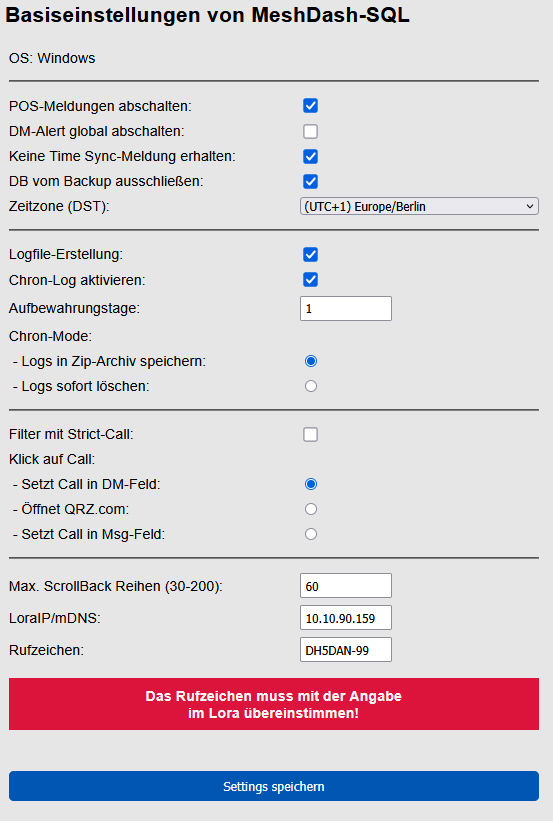
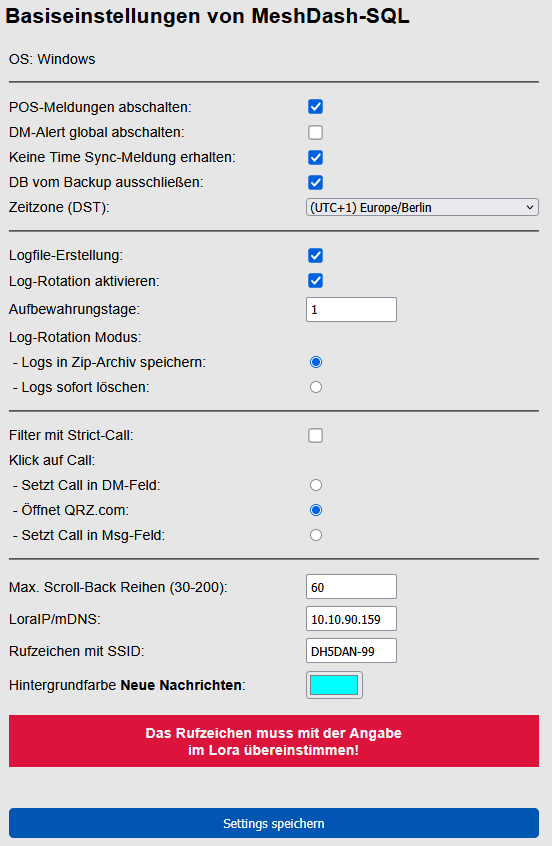
UPDATE Readme MD

Changed region(s): [[0.0, 0.0609, 0.9855, 1.0], [0.0, 0.0, 0.7391, 0.0305]]

diff --git a/README.md b/README.md
@@ -2,7 +2,7 @@
 
 ## Was ist MeshDash-SQL?
 
-MeshDash_SQL ist eine Webanwendung zur Anzeige und Verwaltung von Nachrichten  
+MeshDash-SQL ist eine Webanwendung zur Anzeige und Verwaltung von Nachrichten  
 auf ESP32-basierten Geräten, die mit der Firmware MeshCom arbeiten.  
 Die Verarbeitung und Speicherung der Daten erfolgt über Sqlite3 daher auch der Zusatz SQL.
 
@@ -31,6 +31,8 @@ Einige Funktionen von MeshDash:
   Dies gewährleistet, das aufeinanderfolgende Nachrichten mit einem  
   eingestellten Zeitabstand gesendet werden, um Sendekollisionen zu vermeiden.
 - Byte-Counter der die verbleibende Anzahl von Zeichen pro Nachricht anzeigt.
+- Auswahl gängiger Emoji über ein DropDown.
+- Zusätzliche Kennzeichnung neuer Nachrichten mit Hintergrundfarbe und Sound.
 
 Das Projekt ist mittlerweile aus der **Beta-Phase**, doch es können immer mal noch Fehler auftreten.  
 Falls Probleme auftreten, bitte im Issue-Bereich von GitHub melden,  
@@ -62,16 +64,17 @@ Hier mal ein Beispiel:
 
 ![FILES](/docs/files.jpg)
 
-## Was steht in der Kurzanleitung.pdf?
+## Was steht in der Manual-Mesh-Dash-SQL.pdf?
 
-Die **Kurzanleitung.pdf** enthält:
+Die **Kurzanleitung.pdf** wurde nun abgelöst durch eine vollwertige Anleitung.  
+Die neue **Manual-Mesh-Dash-SQL.pdf** enthält:
 
 
-- Eine kleine Installations-Anleitung mit den wichtigsten Schritten zur Einrichtung von MeshDash.
-
-- Ein **kurzes User-Manual** mit Screenshots der Weboberfläche und Erklärungen zu den Menüpunkten.
-
-Diese Datei hilft dir, MeshDash schnell zu installieren und zu nutzen.  
+- Eine Installations-Anleitung mit den wichtigsten Schritten zur Einrichtung von MeshDash.
+- Ein **detailliertes User-Manual** mit Screenshots der Weboberfläche und Erklärungen zu den Menüpunkten.
+- Ein Troubleshooting Guide mit Tipps zur Fehleranalyse von MeshDash.
+ 
+Diese Datei hilft, MeshDash schnell zu installieren und zu nutzen.  
 Sie wird in regelmässigen Abständen aktualisiert.
 
 ## Hier noch ein paar Bilder aus den Menüpunkten:
@@ -101,8 +104,13 @@ Die max. Textlänge ist aber derzeit auf 150 Zeichen beschränkt.
 
 ![FILES](/docs/34_msg_byte_counter.jpg)
 
+### Einfügen von Emoji
+Über ein Drop-Down kann eine kleine Auswahl an gängigen Emoji vorgenommen werden.
+![FILES](/docs/32_send_command.jpg)
+
 
 ### Nun auch mit Tab-Benachrichtigungen bei neuen Nachrichten.
+Einstellbar sind die Hintergrundfarbe allgemein und Soundbenachrichtigungen pro Tab-Gruppe.
 ![FILES](/docs/60_desktop_tab_alert.jpg)
 ![FILES](/docs/61_handy_Tab_alert.jpg)
 
